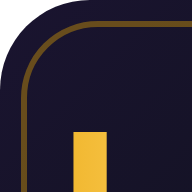
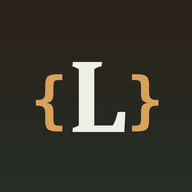
Nouvelle icône {L}

diff --git a/docs/code/sw.js b/docs/code/sw.js
@@ -1,7 +1,7 @@
-/* Larkhré v8 — service worker : l'appli fonctionne même sans internet.
+/* Larkhré — service worker : l'appli fonctionne même sans internet.
    Stratégie : réseau d'abord (toujours la dernière version quand on est
    connecté), cache en secours (hors-ligne = la dernière version connue). */
-const CACHE = 'larkhre-v8';
+const CACHE = 'larkhre-v11-2';  // nouveau nom : les téléphones rechargent tout, icône comprise
 const FICHIERS = ['./', './index.html', './manifest.json', './icone-192.png', './icone-512.png'];
 
 self.addEventListener('install', (e) => {
